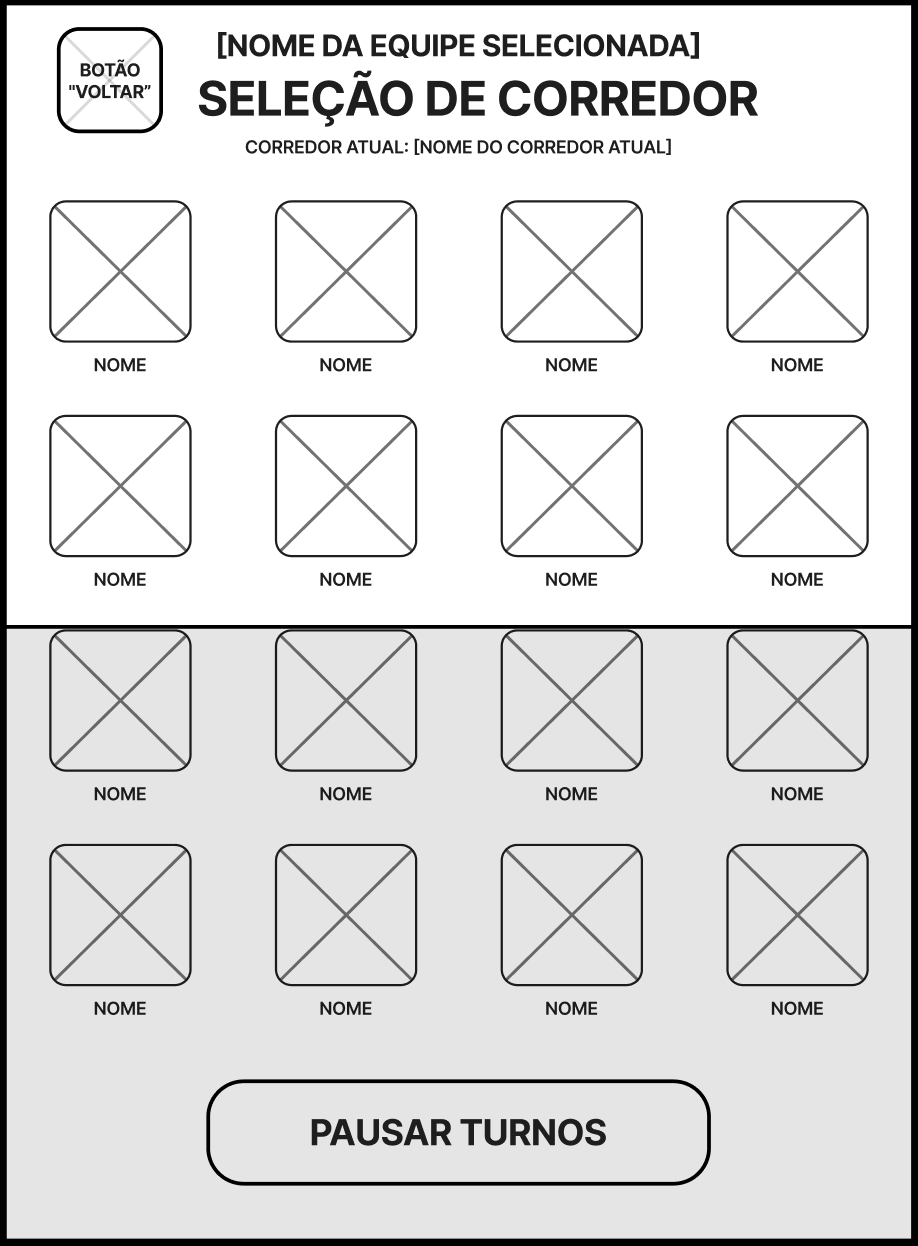
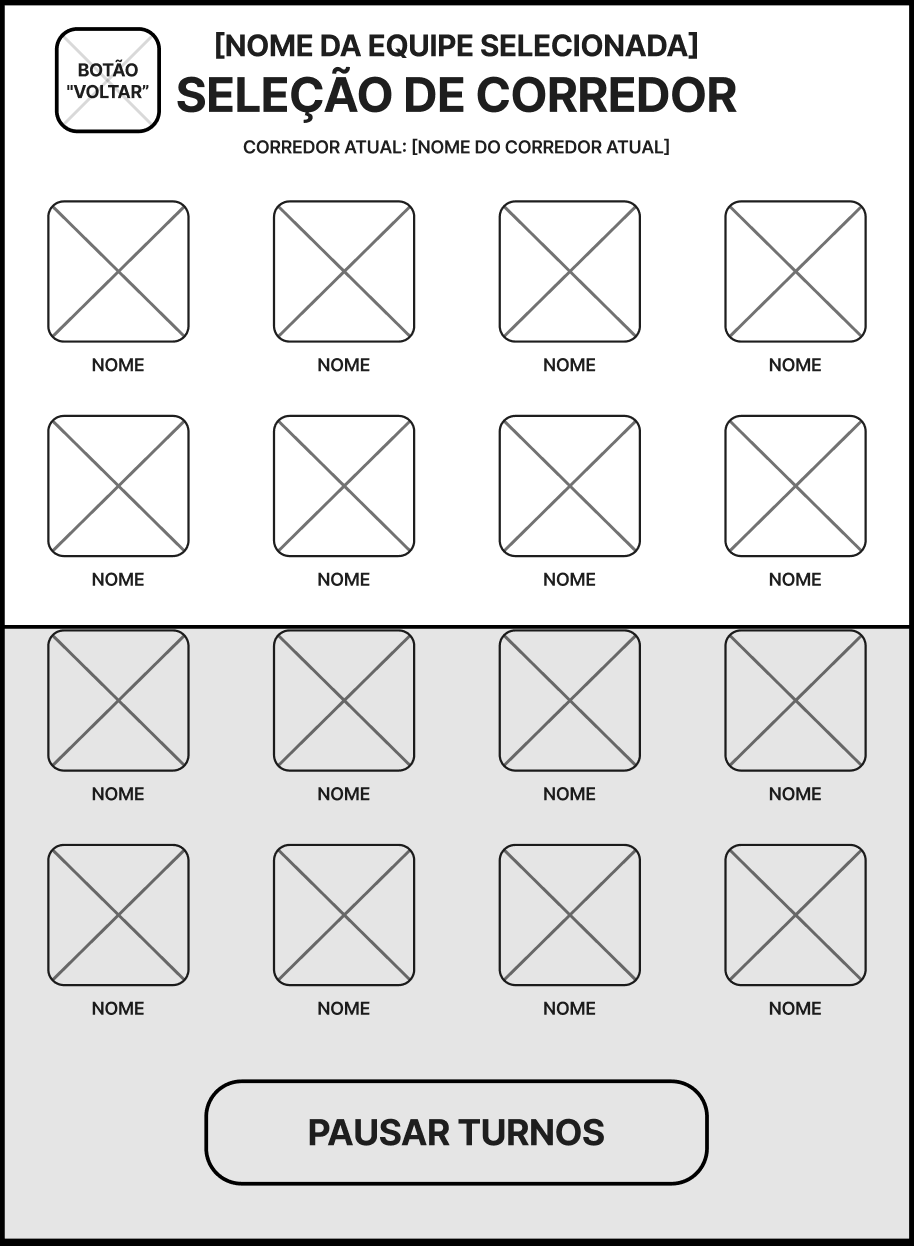
docs(#89) corrige desalinhamento de texto do wireframe e troca a palavra "atleta" por "corredor"

diff --git a/documentos/wad.md b/documentos/wad.md
@@ -974,7 +974,7 @@ Esse é o wireframe da tela de escolha de corredores da equipe selecionada na et
 </div>
 <br>
 
-As fotografias dos atletas são organizadas em grade por toda a área central da tela em quadros interativos agindo como botões, permitindo identificação rápida e acesso intuitivo às funções da interface. Ao selecionar um dos quadros, o usuário é direcionado para a tela de início do turno correspondente ao atleta da foto escolhida.
+As fotografias dos corredores são organizadas em grade por toda a área central da tela em quadros interativos agindo como botões, permitindo identificação rápida e acesso intuitivo às funções da interface. Ao selecionar um dos quadros, o usuário é direcionado para a tela de início do turno correspondente ao corredor da foto escolhida.
 
 A interface também disponibiliza outros dois botões: um localizado na esquerda superior, que retorna o usuário para a tela de seleção de equipe; e outro com a função de pausar turnos, utilizada para interromper o registro de dados do turno atual.
 